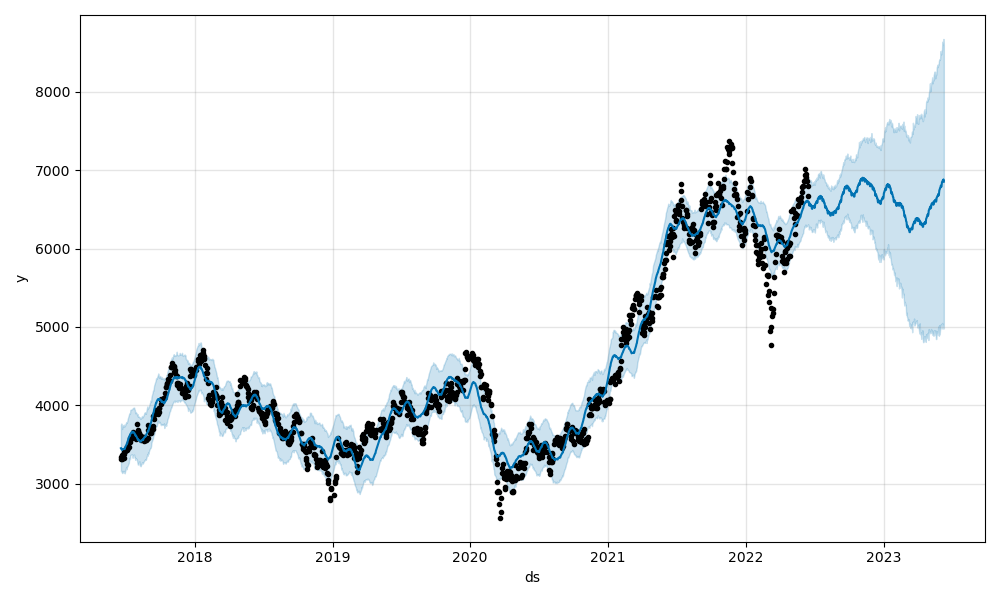
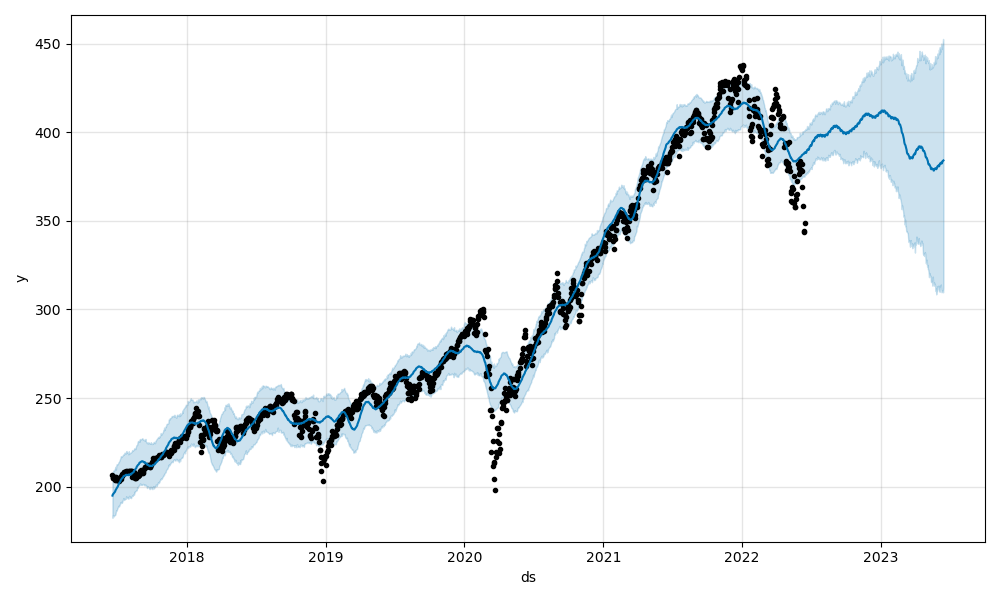
ダウ平均、VOO追加

diff --git a/stock_data.py b/stock_data.py
@@ -18,7 +18,12 @@ def get_stock_data(code):
     Returns:
         df (pandas.core.frame.DataFrame): 株価データのDataFrame
     """
+    # 日本株
     df = pdr.DataReader("{}.JP".format(code), "stooq").sort_index()
+    # ダウ平均
+    # df = pdr.DataReader("^DJI", "stooq")
+    # ヴァンガード S&P500 ETF
+    # df = pdr.DataReader("VOO", "stooq")
     return df
 
 
@@ -272,7 +277,8 @@ def summary_predict_stock(df, code, code_name):
     df["gc"], df["dc"] = gc, dc
 
     # 計算結果 グラフ 120日分
-    pdf = df.tail(120)
+    pdf = df.tail(120)  # 日本株
+    # pdf = df.head(120)  # ダウ平均, VOO
     layout = {
         "title": {"text": str(code) + ":" + code_name, "x": 0.5},
         "xaxis": {"title": "日付", "rangeslider": {"visible": False}},
@@ -383,21 +389,21 @@ def summary_predict_stock(df, code, code_name):
     ]
     fig = go.Figure(data=data, layout=go.Layout(layout))
 
-    # 日付と曜日を考慮
-    df.reset_index(inplace=True)
-    # 3日に1日の日付を取り出す 重なり防止
-    days_list = [df.index[idx : idx + 3] for idx in range(0, len(df.index), 3)]
-    dates = [df["Date"][r[0]] for r in days_list]
-    # X軸を更新
-    fig["layout"].update(
-        {
-            "xaxis": {
-                "showgrid": True,
-                "tickvals": np.arange(0, df.index[-1], 3),
-                "ticktext": [x.strftime("%m/%d") for x in dates],
-            }
-        }
-    )
+    # # 日付と曜日を考慮  (表示分かりやすくならなかったから削除)
+    # df.reset_index(inplace=True)
+    # # 3日に1日の日付を取り出す 重なり防止
+    # days_list = [df.index[idx : idx + 3] for idx in range(0, len(df.index), 3)]
+    # dates = [df["Date"][r[0]] for r in days_list]
+    # # X軸を更新
+    # fig["layout"].update(
+    #     {
+    #         "xaxis": {
+    #             "showgrid": True,
+    #             "tickvals": np.arange(0, df.index[-1], 3),
+    #             "ticktext": [x.strftime("%m/%d") for x in dates],
+    #         }
+    #     }
+    # )
     fig.show()
 
 
@@ -422,8 +428,10 @@ code_dict = {
     9101: "日本郵船",
     9104: "商船三井",
     9434: "softbank",
+    "dji": "ダウ平均",
+    "voo": "ヴァンガード S&P500 ETF",
 }
-CODE = 6501
+CODE = 2897
 CODE_NAME = code_dict[CODE]
 
 DF = get_stock_data(CODE)
@@ -446,7 +454,7 @@ DF = get_stock_data(CODE)
 # sma(DF)
 # macd_rsi_sma(DF)
 # golden_dead_cross(CODE, DF)
-# summary_predict_stock(DF, CODE, CODE_NAME)
-prophet_predict(DF, CODE_NAME)
+summary_predict_stock(DF, CODE, CODE_NAME)
+# prophet_predict(DF, CODE_NAME)
 
 plt.close("all")
